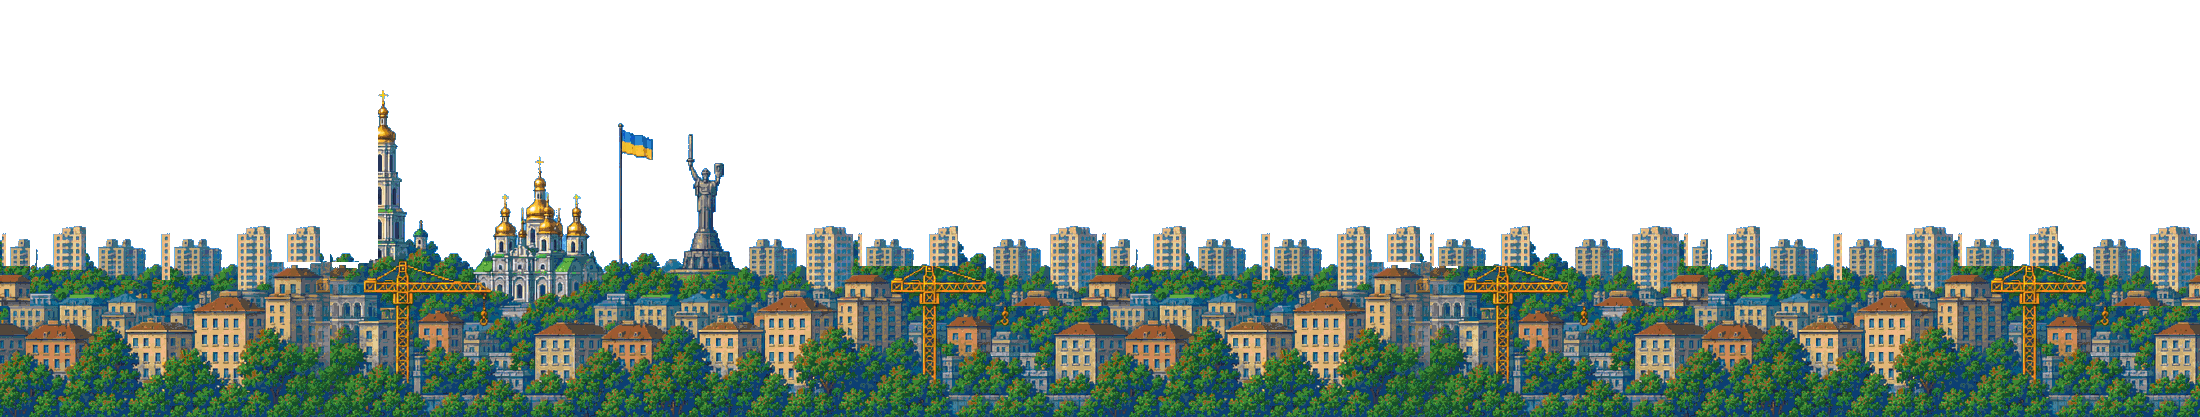
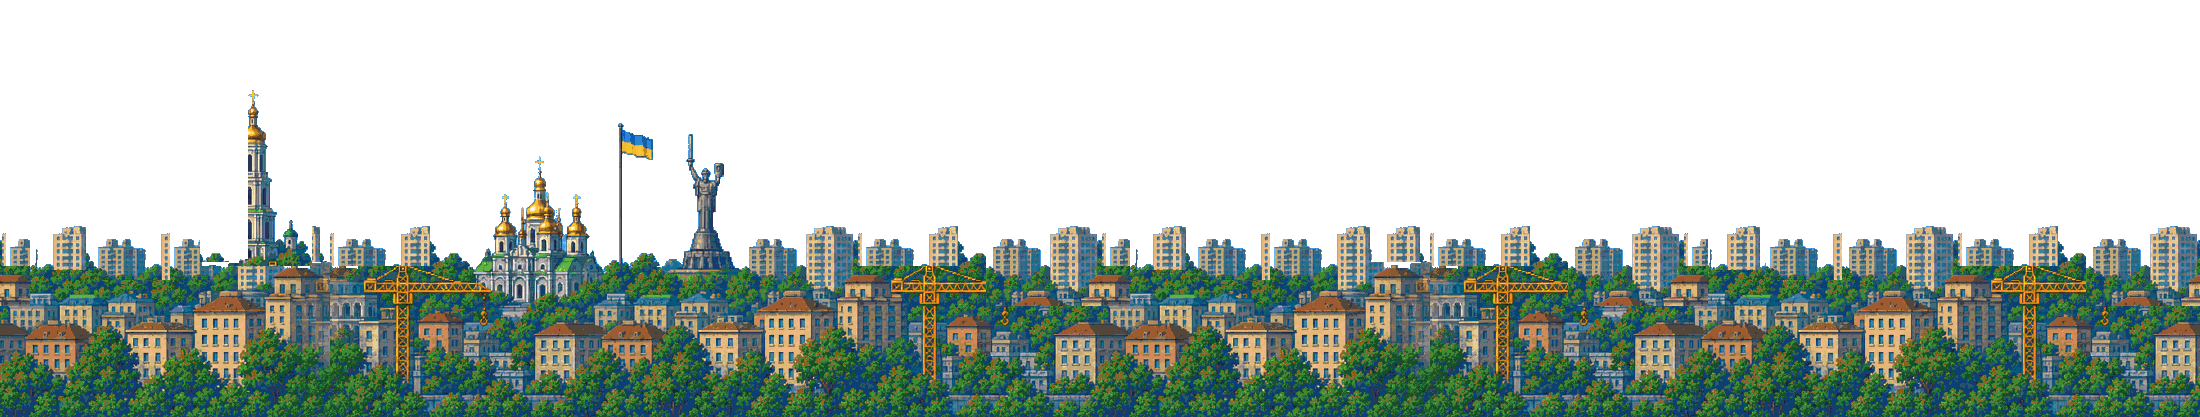
1-1 background: loop the street at a building edge, keep the bell tower in place
- the street facades loop at x=729 (white facade -> complete cream building) instead of a
  cross-faded seam, so the cream building keeps its dormer and windows (fix_street_l11 fixup,
  seamless: false)
- the bell tower stays behind the grey building's attic; only the cathedral, flag and
  Motherland monument move 130 px right

Changed region(s): [[0.0927, 0.2494, 0.2164, 0.6547]]

diff --git a/tools/fix_far_l11.py b/tools/fix_far_l11.py
@@ -43,6 +43,9 @@ PATCH_B = [
     (280, 50, 806, 270),     # flag
     (336, 80, 864, 280),     # statue
 ]
+TOWER = (0, 112)    # bell tower + chapels (columns of A)
+TOWER_ROLL = 200    # the tower's own offset (its original place)
+TOWER_ROWS = 266    # copy rows above the treeline only (as the PATCH_B block does)
 ROLL = 330          # landmark set further right: the bell tower and cathedral clear the grey building
 
 
@@ -62,7 +65,13 @@ def main():
     assert src.shape[1] == 1100, f"expected the 1100 px pixelize output, got {src.shape}"
     a = patch(src, PATCH_A)
     b = patch(a, PATCH_B)
-    layer = np.roll(np.concatenate([a, b], axis=1), ROLL, axis=1)
+    # the bell tower stays where it was (behind the grey building's tall attic, so its hidden base reads
+    # as "further back"); only the cathedral, flag and monument move right with ROLL
+    a2 = a.copy()
+    a2[:, TOWER[0]:TOWER[1]] = b[:, TOWER[0]:TOWER[1]]
+    layer = np.roll(np.concatenate([a2, b], axis=1), ROLL, axis=1)
+    x0 = TOWER[0] + TOWER_ROLL
+    layer[:TOWER_ROWS, x0:x0 + TOWER[1] - TOWER[0]] = a[:TOWER_ROWS, TOWER[0]:TOWER[1]]
     layer[layer[..., 3] < 255] = 0      # no half-transparent seam ghosts (binary alpha)
     Image.fromarray(layer, "RGBA").save(OUT)
     print(f"far.png -> {layer.shape[1]}x{layer.shape[0]} (one landmark set at x {28 + ROLL}-{410 + ROLL})")

diff --git a/tools/fix_street_l11.py b/tools/fix_street_l11.py
@@ -1,0 +1,31 @@
+"""1-1 street facades: loop the strip at a building boundary instead of cross-fading it.
+
+The generated strip starts with a cream building and ends with its twin, cut off. Cropping to the
+period where the twin begins (x = 729, found by column matching) makes the loop join a white facade
+to a complete cream building: no cross-fade, so no half-transparent ghost roof and no smeared
+windows. The manifest entry has `seamless: false` so make_parallax leaves the ends alone.
+
+Runs as the `fixup` of l1_bg_street (pixelize.py), or by hand:  python tools/fix_street_l11.py
+"""
+from pathlib import Path
+
+import numpy as np
+from PIL import Image
+
+ROOT = Path(__file__).resolve().parent.parent
+OUT = ROOT / "public" / "assets" / "parallax" / "l11" / "street.png"
+PERIOD = 729
+
+
+def main():
+    im = Image.open(OUT).convert("RGBA")
+    if im.width > PERIOD:
+        im = im.crop((0, 0, PERIOD, im.height))
+    a = np.array(im)
+    a[a[..., 3] < 255] = 0          # binary alpha
+    Image.fromarray(a, "RGBA").save(OUT)
+    print(f"street.png -> {PERIOD}x{im.height} (loops white facade -> cream building)")
+
+
+if __name__ == "__main__":
+    main()
